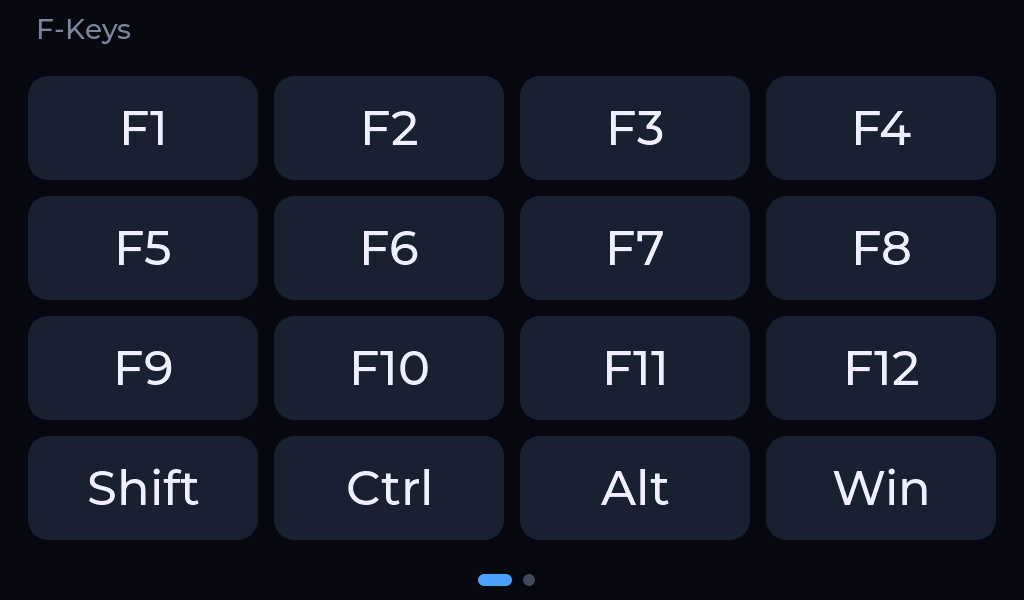
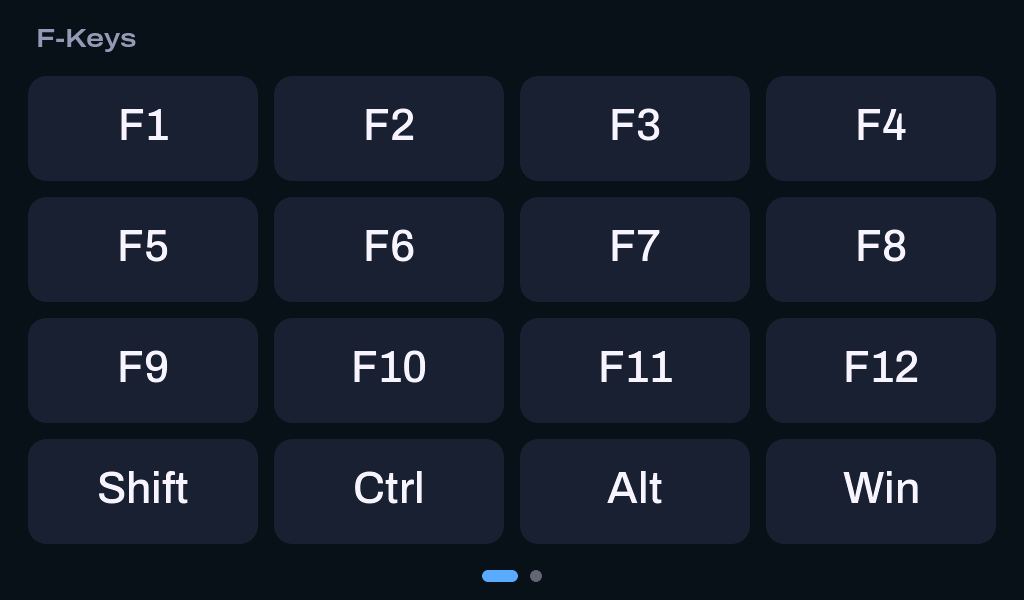
docs: show the current firmware in the guide's device images

diff --git a/README.md b/README.md
@@ -35,11 +35,11 @@ Keep the Companion running and USB connected for actions on this PC and live rea
 
 ## Device screen examples
 
-These two captures are from earlier Firmware. Updated Device shots are pending; the app screenshots above and in the guide use the current UI with demo data.
+These captures show the built-in Layout on a Device running Firmware v0.2.0-495-g2fab801. The app screenshots above and in the guide use the current UI with demo data.
 
 <p>
-  <img src="docs/images/deck-media.png" width="49%" alt="Earlier Firmware: Media Page">
-  <img src="docs/images/deck-fkeys.png" width="49%" alt="Earlier Firmware: function-key Page">
+  <img src="docs/images/deck-media.png" width="49%" alt="Media Page with playback and Volume controls">
+  <img src="docs/images/deck-fkeys.png" width="49%" alt="Function-key Page with F1–F12 and modifiers">
 </p>
 
 ## Build from source
